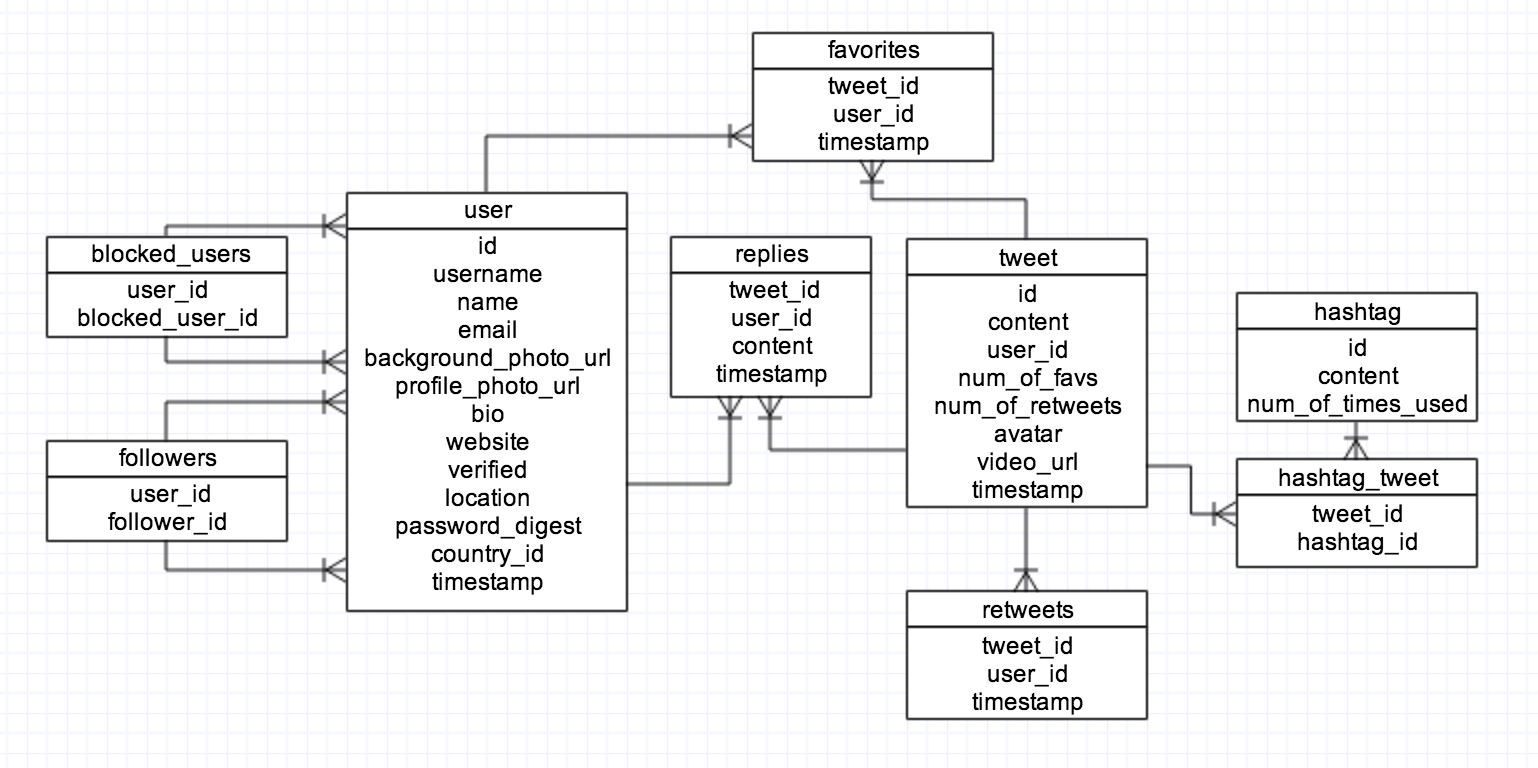
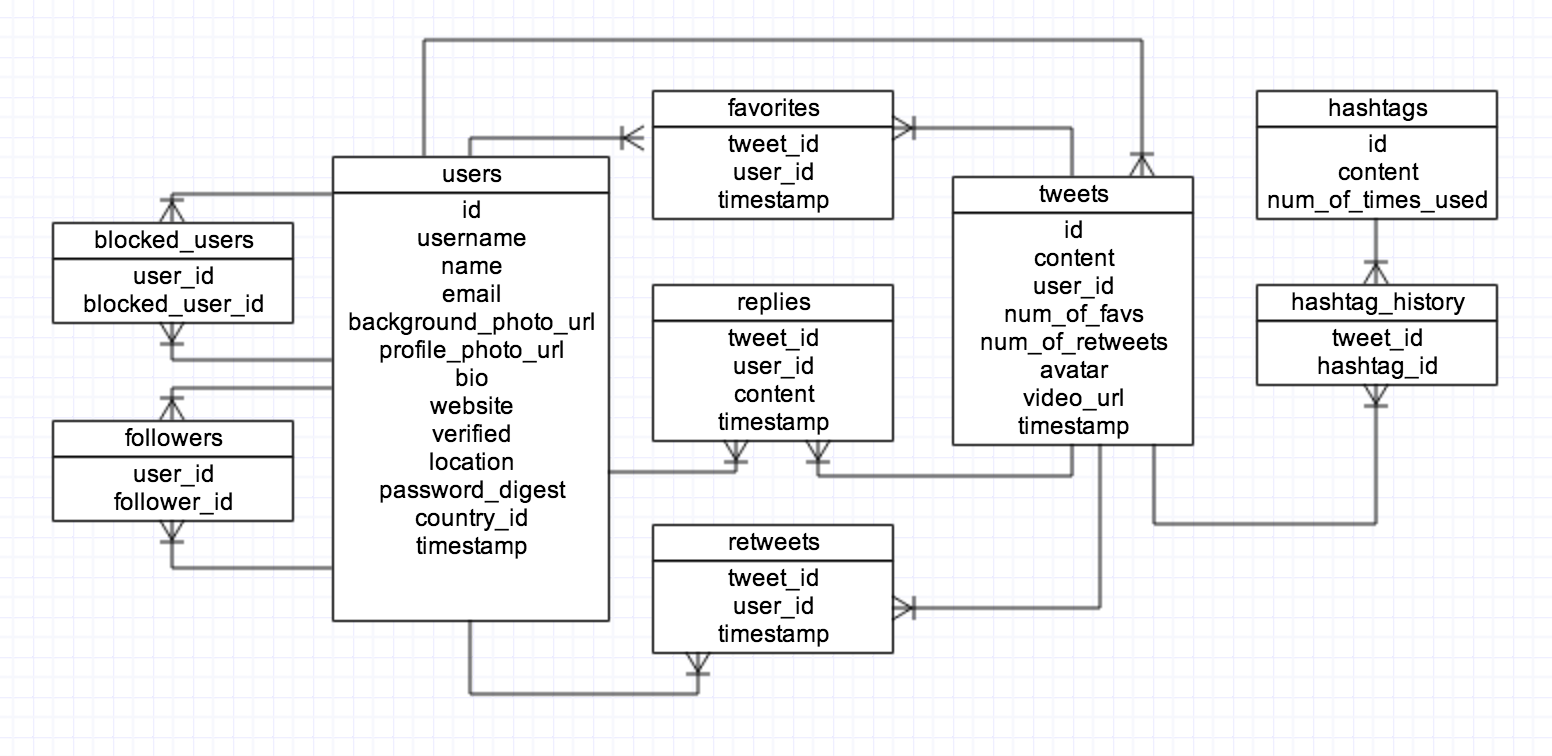
revise kitter erd image and updatemigration instructions

Changed region(s): [[0.0312, 0.0304, 0.9675, 0.9431]]

diff --git a/kitter/setup/migration_instructions.md b/kitter/setup/migration_instructions.md
@@ -1,10 +1,10 @@
 # # migration commands
 
+# Initialize Rails App
+# rails new kitter -d postgresql
 
 # User Model
 # rails g model user username name email background_photo_url profile_photo_url bio website verified:boolean location password_digest country_id:integer
-# add default photo_url and background_photo_url
-# rails g migration add_default_profile_photo_url_and_background_photo_url_to_user
 
 # Tweet Model
 # rails g model tweet content user:references
@@ -26,6 +26,9 @@
 
 # Hashtag Tweet Join Migration
 # rails g migration create_twitter_hashtags_join_table tweet:references hashtag:references
+# add default num_of_times_used value to 1
+#rails g migration add_default_value_num_of_times_used_to_hasht
+
 
 # Favorites Migration
 # rails g migration create_favorites tweet:references user:references
